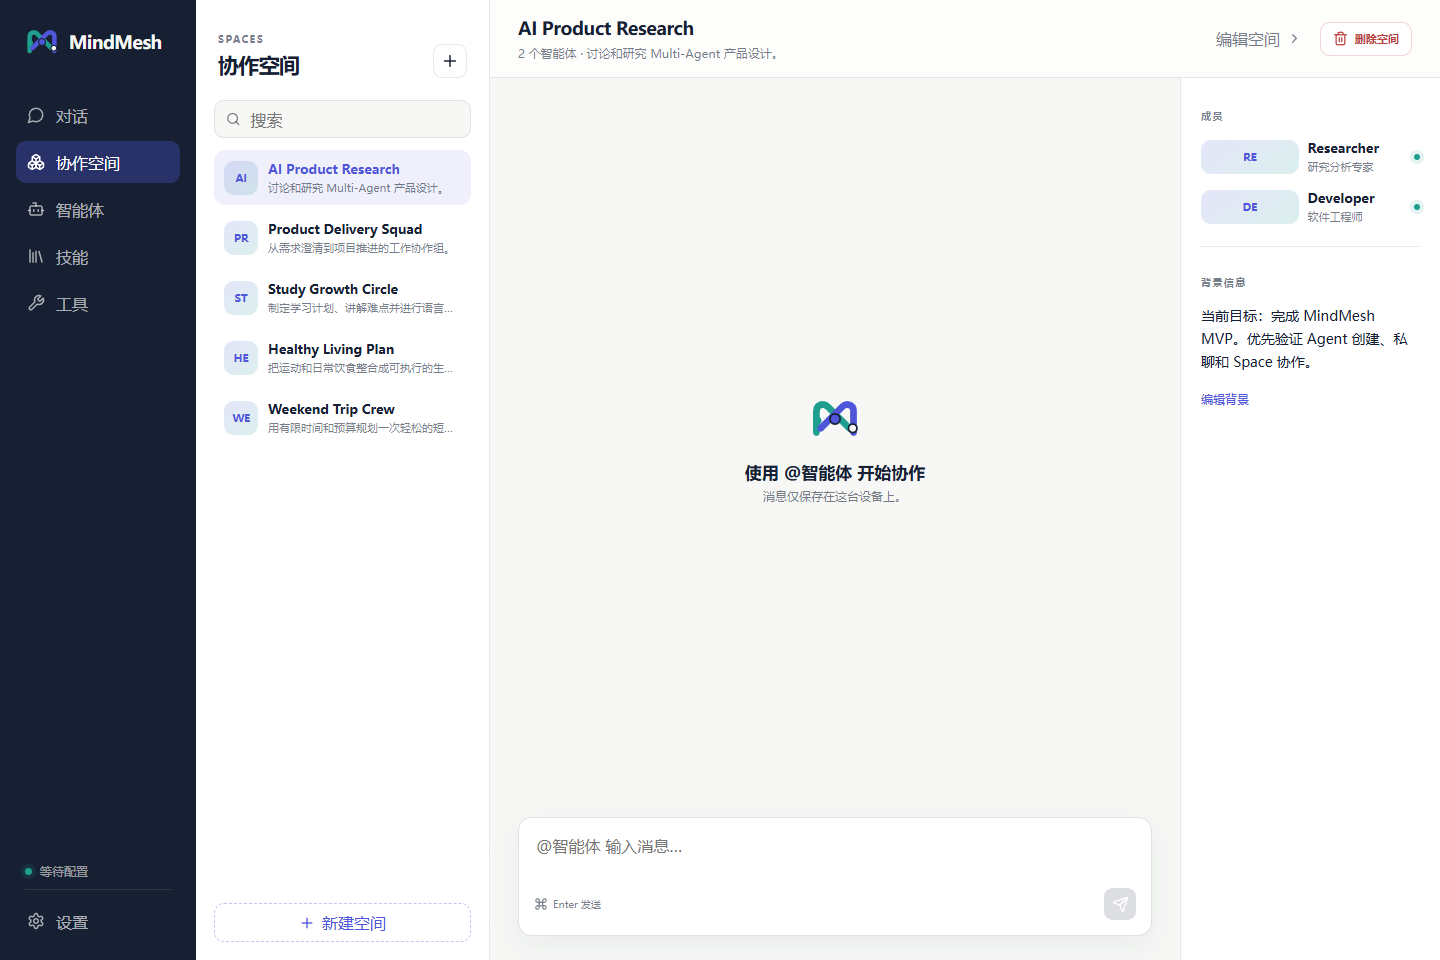
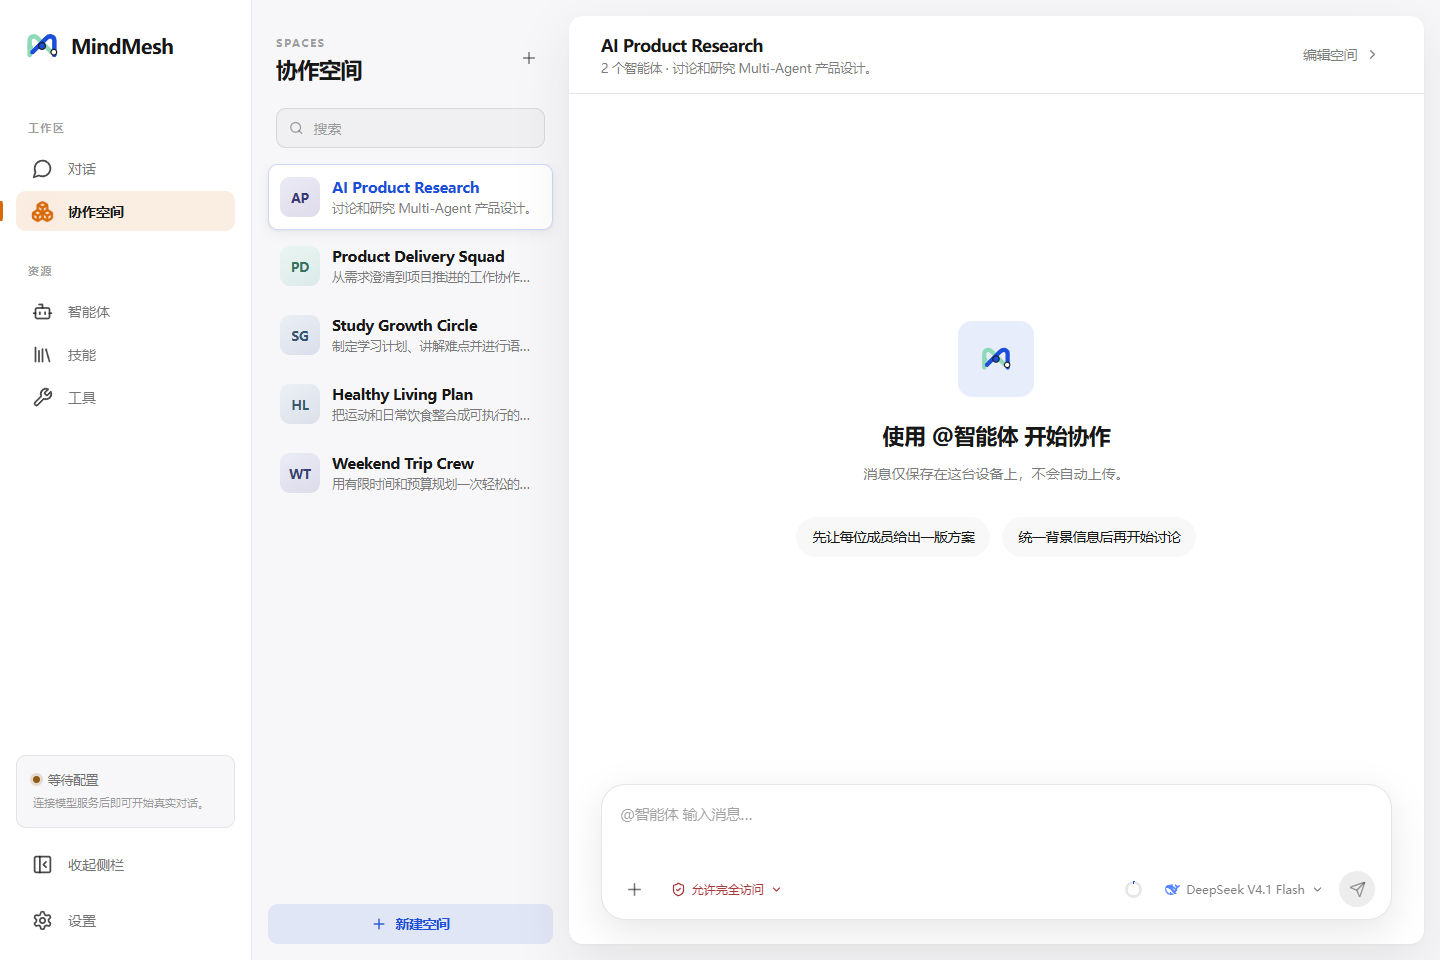
Refresh README and interface screenshots

diff --git a/README.md b/README.md
@@ -5,75 +5,77 @@
 <h1 align="center">MindMesh</h1>
 
 <p align="center">
-  本地优先的多智能体桌面协作平台<br />
-  创建不同角色的 AI 智能体，让它们在私聊和协作空间中共同完成工作、学习与生活任务。
+  本地优先的多智能体桌面工作台<br />
+  组建各有所长的 AI 团队，在私聊或协作空间里完成研究、规划、写作与开发任务。
 </p>
-
-## 项目简介
-
-MindMesh 是一个基于 Electron 的多智能体桌面应用。每个智能体都可以拥有独立的身份设定、模型、技能和工具；多个智能体可以加入同一个协作空间，共享背景信息并按 `@智能体` 顺序参与讨论。
-
-项目目前已经覆盖从智能体创建、模型配置、实时对话到本地持久化的完整桌面工作流。所有聊天记录、角色配置和运行会话默认保存在本机，API Key 由 Electron `safeStorage` 使用操作系统能力加密。
-
-## 可以用它做什么
-
-- **产品与项目推进**：产品经理整理用户故事，项目协调员拆分里程碑、依赖和风险。
-- **学习与语言练习**：学习教练制定复习计划，语言教练提供对话、语法和写作反馈。
-- **健康生活规划**：健身教练安排渐进训练，饮食规划师生成餐单、采购清单和备餐顺序。
-- **旅行规划**：旅行规划师结合日期、预算、交通和兴趣生成逐日行程。
-- **研究与开发**：研究员整理资料和证据，开发者借助文件与 Shell 工具完成技术任务。
-
-## 核心功能
-
-- 创建和编辑智能体，分别配置身份、模型、技能与工具。
-- 支持私聊和多智能体协作空间，提供 `@Agent` 自动补全与顺序执行。
-- 回复以流式效果展示；思考过程分段显示，并在回答完成后保留为可折叠内容。
-- 用户消息和智能体回复统一使用 Markdown 排版。
-- 内置项目规划、用户故事、学习计划、语言辅导、训练计划、餐单规划和旅行规划等角色技能。
-- 从本地 `SKILL.md` 发现技能，并按稳定 Skill ID 绑定到独立 Harness 运行环境。
-- 支持网页搜索、工作目录文件读写和本地 Shell 工具。
-- 支持 DeepSeek、Kimi、OpenAI、Anthropic 以及自定义兼容服务。
-- 使用 SQLite 保存 Agent、Space、消息和运行会话；切换工作目录不会丢失聊天历史。
-
-## 界面预览
-
-### 私聊
-
-为每个智能体保留独立对话与运行上下文。
 
 ![MindMesh 私聊界面](docs/screenshots/private-chat.png)
 
+## MindMesh 是什么
+
+MindMesh 是一款基于 Electron 的 Windows 桌面应用。你可以为每个智能体分别配置身份设定、模型、技能和工具，也可以把多个智能体放进同一个协作空间，通过 `@智能体` 指定参与者与执行顺序。
+
+对话、智能体、空间和运行会话默认保存在本机；API Key 由 Electron `safeStorage` 调用操作系统能力加密保存。没有配置模型密钥时，应用会进入演示模式，仍可体验界面和管理流程。
+
+## 核心能力
+
+- **智能体编排**：独立设置角色、提示词、模型、技能与工具；修改名称和角色不会意外丢失既有会话。
+- **私聊与协作空间**：保留每个智能体的独立上下文，也能让多个角色共享背景并按 `@` 提及顺序协作。
+- **对话运行控制**：每轮可选择模型和权限级别，查看上下文用量，并随时停止正在生成的回复。
+- **多模态输入**：DeepSeek Flash 对话支持 PNG、JPEG、WebP 与 GIF 图片附件。
+- **技能与工具**：从本地 `SKILL.md` 发现技能；按需启用网页搜索、文件、Shell、浏览器、待办、目标和后台任务。
+- **模型服务**：内置 DeepSeek、Kimi、OpenAI、Anthropic，并可接入兼容 OpenAI API 的自定义服务。
+- **桌面体验**：三栏布局可拖动调宽、收起导航；支持 Markdown、折叠思考过程、搜索、个人昵称与头像。
+
+## 界面预览
+
 ### 多智能体协作空间
 
-一个 Space 可以组合多个角色，共享目标、背景和讨论历史。
+一个 Space 可以组合多个角色，共享目标、背景和讨论历史，并通过 `@智能体` 控制发言顺序。
 
 ![MindMesh 协作空间](docs/screenshots/collaboration-space.png)
 
 ### 智能体管理
 
-集中查看各智能体使用的模型、角色技能和当前状态。
+集中查看智能体的模型、角色技能和可用状态；点开后可继续对话或编辑能力配置。
 
 ![MindMesh 智能体管理](docs/screenshots/agent-management.png)
 
-### 技能库
+### 技能库与工具
 
-技能通过本地 `SKILL.md` 提供可复用的专业工作方法。
+技能提供可复用的工作方法，工具负责连接网页、本地文件、Shell、浏览器和长任务状态。
 
-![MindMesh 技能库](docs/screenshots/skill-library.png)
+<table>
+  <tr>
+    <td><img src="docs/screenshots/skill-library.png" alt="MindMesh 技能库" /></td>
+    <td><img src="docs/screenshots/tool-library.png" alt="MindMesh 工具库" /></td>
+  </tr>
+  <tr>
+    <td align="center">技能库</td>
+    <td align="center">工具</td>
+  </tr>
+</table>
+
+### 设置
+
+管理个人资料、模型服务、DeepSeek 余额、Agent 工作目录和本地运行状态。
+
+![MindMesh 设置](docs/screenshots/settings.png)
 
 ## 工作原理
 
 ```mermaid
 flowchart LR
-  UI[React 桌面界面] --> IPC[Preload IPC]
-  IPC --> Main[Electron Main]
+  UI[React Renderer] -->|contextBridge| Preload[Sandboxed Preload]
+  Preload -->|validated IPC| Main[Electron Main]
   Main --> DB[(SQLite)]
-  Main --> Pool[Harness 运行池]
-  Pool --> Skills[Skill 与 Tool 补丁]
-  Pool --> Models[模型服务]
+  Main --> Pool[Harness Runtime Pool]
+  Pool --> Skills[Skills]
+  Pool --> Tools[Tools / Playwright]
+  Pool --> Models[Model Providers]
 ```
 
-每个 Agent 的模型、身份、技能和工具共同决定其能力哈希。MindMesh 使用该哈希隔离 Harness Home 和运行会话，在复用进程的同时避免不同智能体之间的能力配置互相污染。
+模型服务、模型、身份设定、技能和工具共同形成能力快照与哈希。MindMesh 按能力和工作目录隔离 Harness Home 与运行会话；名称、角色等展示信息则实时覆盖，因此改名不会无故重置会话。
 
 ## 快速开始
 
@@ -92,75 +94,77 @@ corepack pnpm@11.7.0 install
 corepack pnpm@11.7.0 dev
 ```
 
-首次启动后，进入 **设置 → 模型服务** 配置 API Key。未配置密钥时，应用会进入演示模式，界面、智能体管理和协作流程仍然可用。
-
-也可以通过环境变量提供密钥：
+首次启动后，前往 **设置 → 模型服务** 连接服务。也可以先通过环境变量配置密钥：
 
 ```powershell
 $env:DEEPSEEK_API_KEY = "你的 API Key"
 corepack pnpm@11.7.0 dev
 ```
 
-其他可用环境变量包括 `MOONSHOT_API_KEY`、`OPENAI_API_KEY` 和 `ANTHROPIC_API_KEY`。
+支持的环境变量还有 `MOONSHOT_API_KEY`、`OPENAI_API_KEY` 和 `ANTHROPIC_API_KEY`。DeepSeek 连接成功后，设置页会显示账户余额状态。
 
-## 构建 Windows 应用
-
-生成免安装目录：
+## 开发与验证
 
 ```powershell
-corepack pnpm@11.7.0 package:dir
-```
-
-生成 NSIS 安装包：
-
-```powershell
-corepack pnpm@11.7.0 package:win
-```
-
-构建产物位于 `release/`。
-
-## 开发校验
-
-```powershell
+# 类型检查、单元/组件测试、生产构建
 corepack pnpm@11.7.0 typecheck
 corepack pnpm@11.7.0 test
 corepack pnpm@11.7.0 build
+
+# 校验安全边界与打包依赖
+corepack pnpm@11.7.0 smoke:security
+corepack pnpm@11.7.0 check:package-deps
 ```
 
-真实 Electron 与 Harness 冒烟测试：
+`smoke:electron` 会运行真实 Electron 与 Harness 冒烟流程，需要可用的 DeepSeek API Key：
 
 ```powershell
 corepack pnpm@11.7.0 smoke:electron
 ```
 
-重新生成 README 截图：
+重新生成本文档中的界面截图：
 
 ```powershell
 node scripts/capture-readme-screenshots.mjs
 ```
 
+截图脚本使用一次性的临时用户目录和演示模式，不会读取或展示本机已有的聊天记录与 API Key。
+
+## 构建 Windows 应用
+
+```powershell
+# 免安装目录
+corepack pnpm@11.7.0 package:dir
+
+# NSIS 安装包
+corepack pnpm@11.7.0 package:win
+```
+
+构建产物位于 `release/`。
+
 ## 项目结构
 
 ```text
 src/
-├─ main/       Electron 主进程、SQLite、Harness 与能力绑定
-├─ preload/    安全 IPC 接口
+├─ main/       Electron 主进程、SQLite、模型服务与 Harness 运行池
+├─ preload/    沙箱中的安全 IPC 桥
 ├─ renderer/   React 桌面界面
-└─ shared/     主进程与渲染进程共享的类型和领域逻辑
-tests/         数据库、运行池、能力、界面与对话流程测试
+└─ shared/     共享类型、校验与领域逻辑
+tests/         数据库、能力、运行池、界面、安全与对话流程测试
 docs/          产品、设计、实施文档与界面截图
-scripts/       构建检查、Harness PoC、E2E 和截图脚本
+scripts/       构建检查、冒烟测试和截图脚本
 ```
 
 ## 本地数据与安全
 
 - 产品数据保存在 Electron `userData/mindmesh-data`，不会写入源码目录。
 - API Key 使用操作系统安全存储加密，不进入 SQLite、日志或 Git。
-- 运行错误日志会脱敏，不记录提示词、模型原始错误或密钥。
-- Agent 的文件与 Shell 工具以用户选择的工作目录作为运行上下文。
+- Renderer 启用 CSP，Preload 在 Electron sandbox 中运行，只暴露受限且经过校验的 IPC 接口。
+- Agent 的文件写入限制在设置中选择的工作目录；Shell 只有在智能体配置和当轮权限都允许时才会启用。
+- 应用阻止非预期的窗口、导航和外部协议，并对日志中的敏感信息做脱敏处理。
 
 ## 当前状态
 
-MindMesh 目前处于 MVP 持续开发阶段，已经完成 Windows 桌面打包、真实模型请求、私聊、多 Agent Space 协作、技能与工具隔离、本地持久化及主要界面流程测试。
+MindMesh 仍处于持续开发阶段，当前以 Windows 为主要目标平台。真实模型能力取决于所连接服务的可用性；部分 Harness 依赖仍为 alpha 版本。
 
-第三方 Skill 的来源与许可见 [THIRD_PARTY_NOTICES.md](THIRD_PARTY_NOTICES.md)。
+项目使用 [MIT License](LICENSE)。第三方 Skill 的来源与许可见 [THIRD_PARTY_NOTICES.md](THIRD_PARTY_NOTICES.md)。
